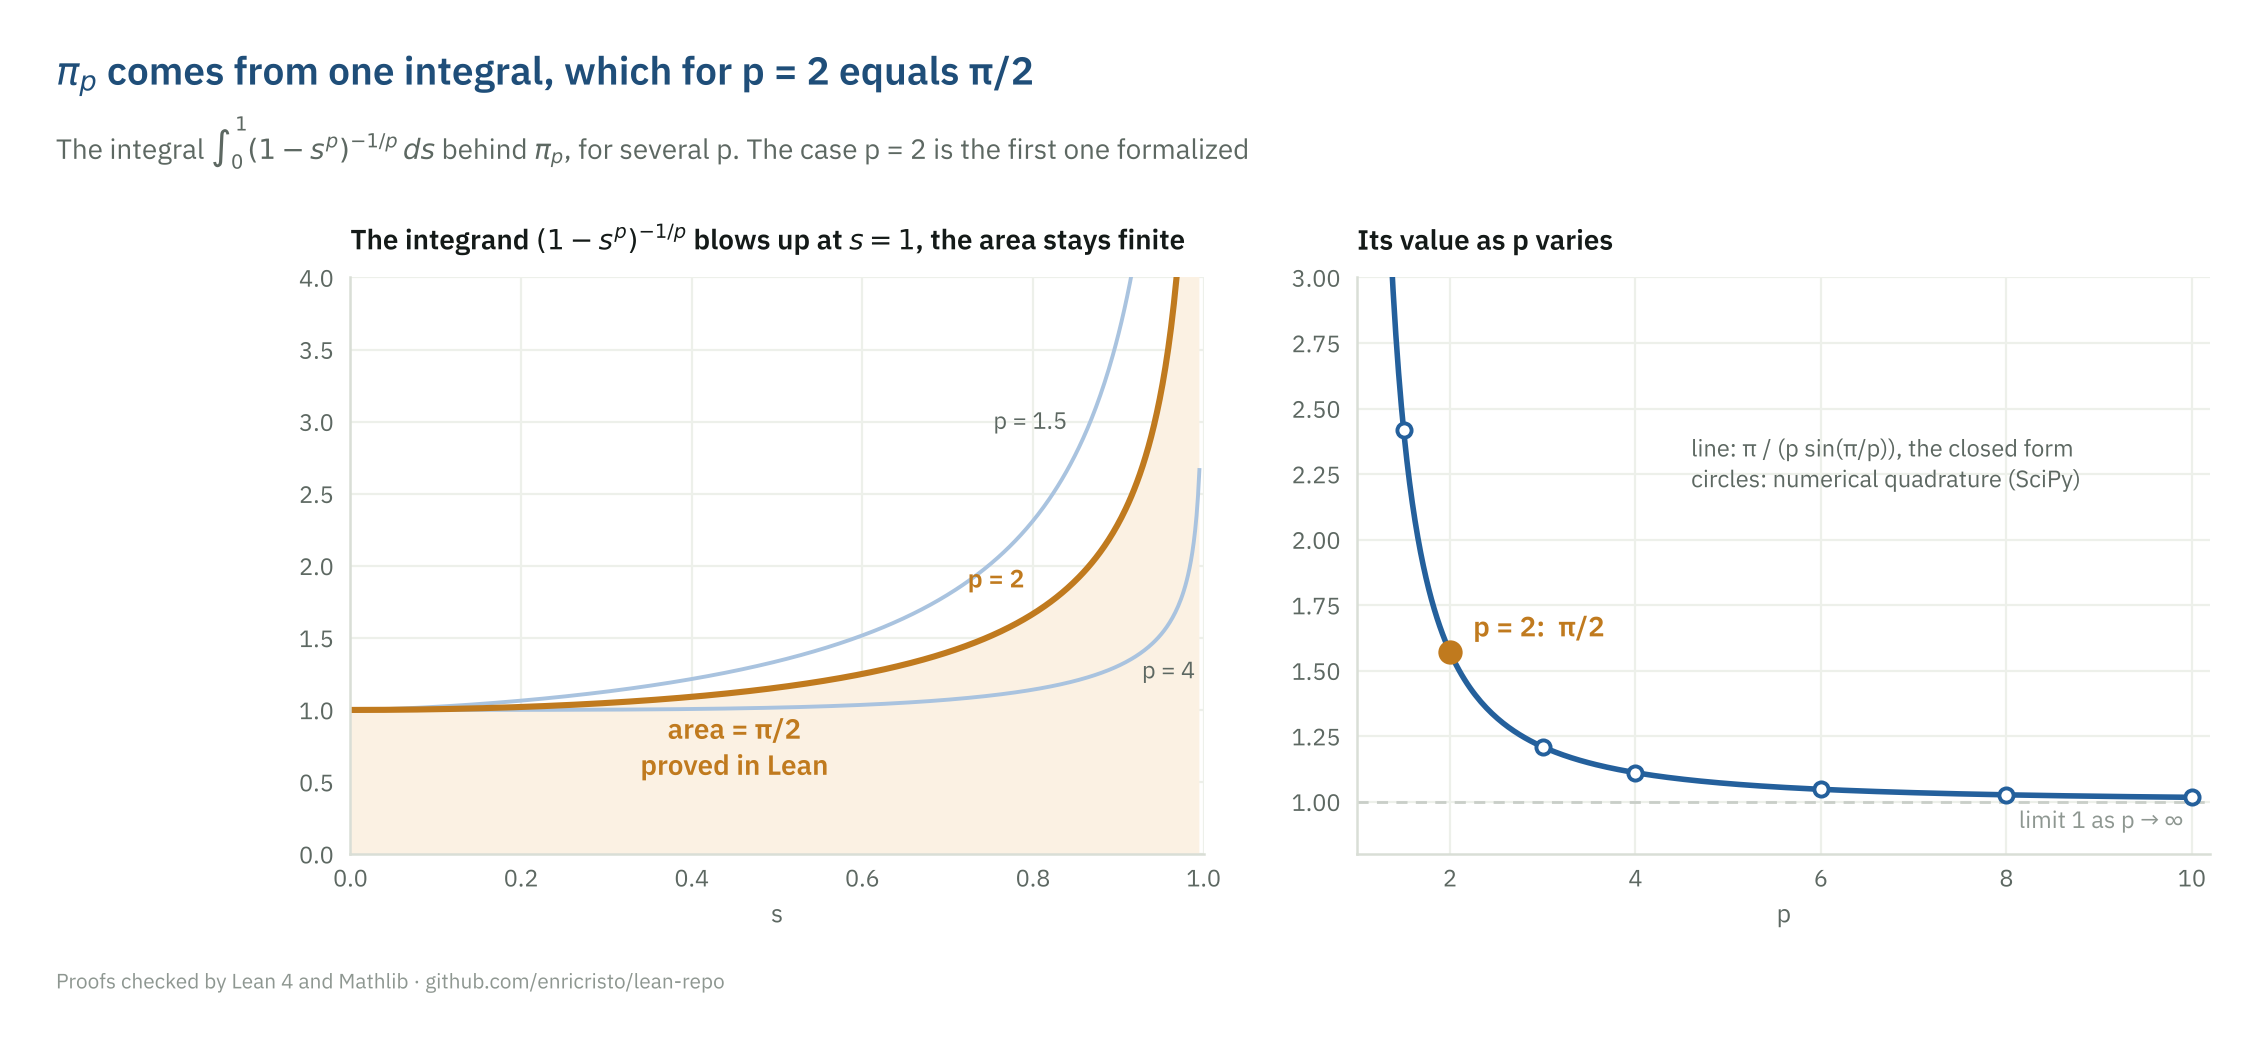
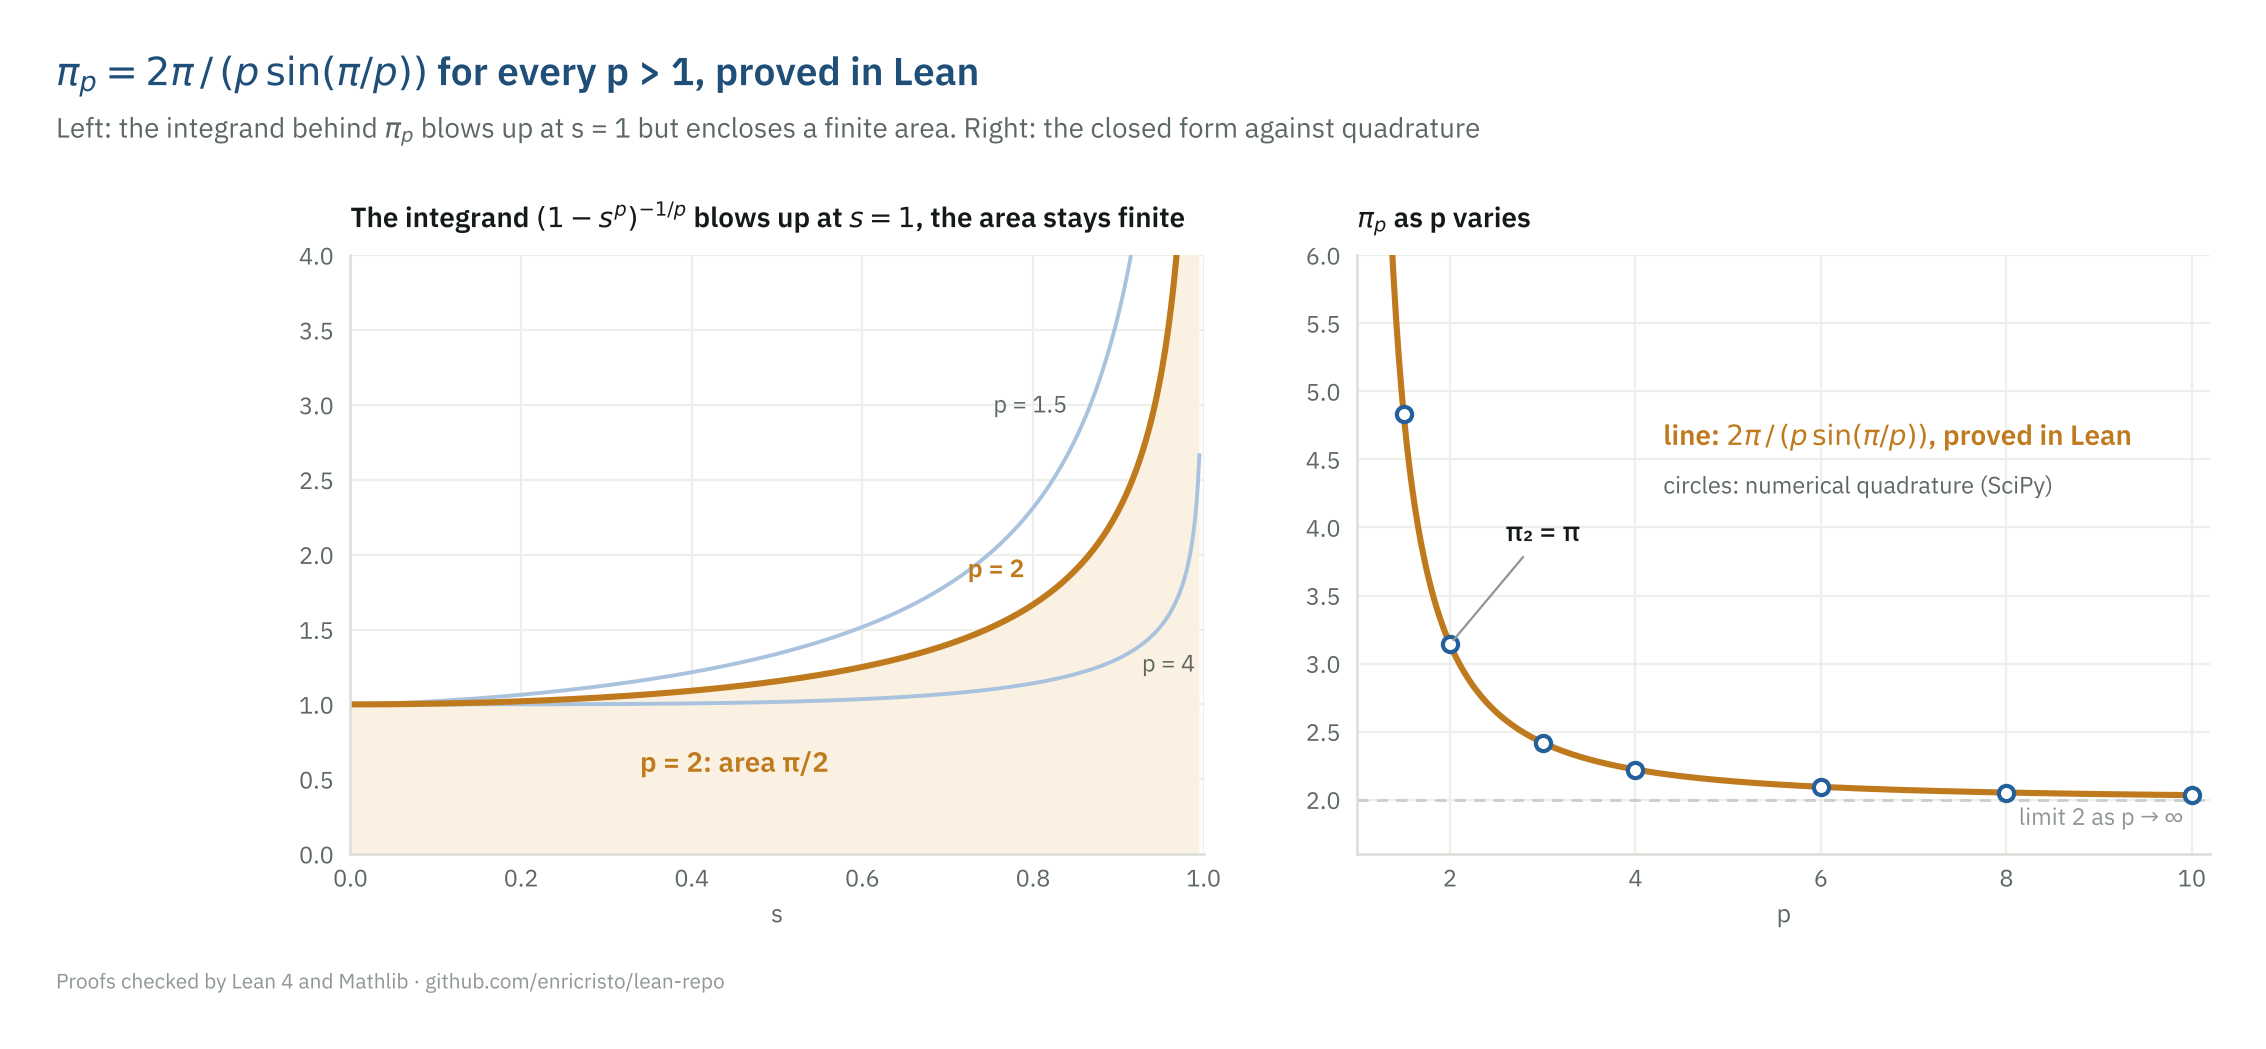
Prove the closed form pi_p = 2 pi / (p sin(pi / p)) for every p > 1
* substitution u = s^p through Mathlib's rule on (0, infinity), with an
  indicator function cutting the half line down to (0, 1)
* the Beta integral B(a, 1 - a) through Gamma and Euler's reflection formula
* axiom audit, SciPy checks of each step, updated note, figure and README

Claude-Session: https://claude.ai/code/session_01DPrMm7Vat1aCAAfTZ9ppCy

diff --git a/scripts/make_figures.py b/scripts/make_figures.py
@@ -30,7 +30,7 @@ def lean_stats() -> dict[str, int]:
     text = "\n".join(f.read_text(encoding="utf-8") for f in files)
     code = re.sub(r"/-.*?-/", "", text, flags=re.S)  # drop comments and docstrings
     return {
-        "results": len(files),
+        "results": len(list((ROOT / "notes").glob("*.md"))),
         "declarations": len(re.findall(r"^(?:noncomputable )?(?:theorem|lemma|def) ", code, flags=re.M)),
         "sorry": len(re.findall(r"\bsorry\b", code)),
     }
@@ -203,7 +203,7 @@ def fig_pi_p():
         ax.plot(s, integrand(s, p), color=NAVY_LIGHT, lw=1.4)
     ax.fill_between(s, 0, integrand(s, 2), color=AMBER_WASH, lw=0)
     ax.plot(s, integrand(s, 2), color=AMBER, lw=2.2)
-    ax.text(0.45, 0.55, "area = π/2\nproved in Lean", color=AMBER, fontsize=10, fontweight="semibold", ha="center")
+    ax.text(0.45, 0.55, "p = 2: area π/2", color=AMBER, fontsize=10, fontweight="semibold", ha="center")
     ax.text(0.84, 2.95, "p = 1.5", color=INK_2, fontsize=8.5, ha="right")
     ax.text(0.79, 1.85, "p = 2", color=AMBER, fontsize=9, ha="right", fontweight="semibold")
     ax.text(0.99, 1.22, "p = 4", color=INK_2, fontsize=8.5, ha="right")
@@ -212,24 +212,26 @@ def fig_pi_p():
     ax.set_xlabel("s")
     ax.set_title(r"The integrand $(1-s^p)^{-1/p}$ blows up at $s = 1$, the area stays finite", pad=10)
 
-    ps = np.linspace(1.15, 10, 300)
-    bx.plot(ps, closed(ps), color=NAVY, lw=2.0)
+    ps = np.linspace(1.12, 10, 300)
+    bx.plot(ps, 2 * closed(ps), color=AMBER, lw=2.2)
     qs = [1.25, 1.5, 2, 3, 4, 6, 8, 10]
-    vals = [quad(integrand, 0, 1, args=(q,), limit=200)[0] for q in qs]
-    bx.scatter(qs, vals, s=26, color=PAPER, edgecolors=NAVY, linewidths=1.4, zorder=3)
-    bx.scatter([2], [np.pi / 2], s=60, color=AMBER, zorder=4)
-    bx.text(2.25, np.pi / 2 + 0.06, "p = 2:  π/2", color=AMBER, fontsize=10, fontweight="semibold")
-    bx.axhline(1, color=CONTEXT, lw=1, ls=(0, (4, 3)))
-    bx.text(9.9, 0.97, "limit 1 as p → ∞", color=INK_3, fontsize=8.5, ha="right", va="top")
-    bx.text(4.6, 2.2, "line: π / (p sin(π/p)), the closed form\ncircles: numerical quadrature (SciPy)", color=INK_2, fontsize=8.5)
+    vals = [2 * quad(integrand, 0, 1, args=(q,), limit=200)[0] for q in qs]
+    bx.scatter(qs, vals, s=30, color=PAPER, edgecolors=NAVY, linewidths=1.5, zorder=3)
+    bx.annotate("π₂ = π", xy=(2, np.pi), xytext=(2.6, 3.9), color=INK, fontsize=10, fontweight="medium",
+                arrowprops={"arrowstyle": "-", "color": INK_3, "lw": 0.8})  # fmt: skip
+    bx.axhline(2, color=CONTEXT, lw=1, ls=(0, (4, 3)))
+    bx.text(9.9, 1.95, "limit 2 as p → ∞", color=INK_3, fontsize=8.5, ha="right", va="top")
+    bx.text(4.3, 4.6, r"line: $2\pi\,/\,(p\,\sin(\pi/p))$, proved in Lean", color=AMBER, fontsize=10,
+            fontweight="semibold")  # fmt: skip
+    bx.text(4.3, 4.25, "circles: numerical quadrature (SciPy)", color=INK_2, fontsize=8.5)
     bx.set_xlim(1, 10.2)
-    bx.set_ylim(0.8, 3.0)
+    bx.set_ylim(1.6, 6.0)
     bx.set_xlabel("p")
-    bx.set_title("Its value as p varies", pad=10)
+    bx.set_title(r"$\pi_p$ as p varies", pad=10)
 
-    viz.headline(fig, r"$\pi_p$ comes from one integral, which for p = 2 equals π/2",
-                 r"The integral $\int_0^1 (1-s^p)^{-1/p}\,ds$ behind $\pi_p$, for several p. The case p = 2 is the first one formalized",
-                 extra_top=22)  # fmt: skip
+    viz.headline(fig, r"$\pi_p = 2\pi\,/\,(p\,\sin(\pi/p))$ for every p > 1, proved in Lean",
+                 r"Left: the integrand behind $\pi_p$ blows up at s = 1 but encloses a finite area. Right: the closed form against quadrature",
+                 extra_top=14)  # fmt: skip
     fig.subplots_adjust(wspace=0.18)
     return fig
 

diff --git a/tests/test_identities.py b/tests/test_identities.py
@@ -91,6 +91,28 @@ def test_pi_integral_closed_form_numerically():
         assert abs(value - np.pi / (p * np.sin(np.pi / p))) < 1e-7, p
 
 
+def test_pi_p_closed_form_and_its_ingredients():
+    from scipy.integrate import quad
+    from scipy.special import beta, gamma
+
+    for p in (1.25, 1.5, 2, 3, 4, 6, 8, 10):
+        a = 1 / p
+        # step 1: substitution u = s^p
+        lhs, _ = quad(lambda s, p=p: (1 - s**p) ** (-a), 0, 1, limit=200)
+        rhs, _ = quad(lambda u, a=a: u ** (a - 1) * (1 - u) ** (-a), 0, 1, limit=200)
+        assert abs(lhs - a * rhs) < 1e-7, p
+        # step 2: Beta, Gamma and Euler's reflection formula
+        assert abs(beta(a, 1 - a) - gamma(a) * gamma(1 - a)) < 1e-9
+        assert abs(gamma(a) * gamma(1 - a) - np.pi / np.sin(np.pi * a)) < 1e-9
+        # step 3: pi_p
+        assert abs(2 * lhs - 2 * np.pi / (p * np.sin(np.pi / p))) < 1e-7, p
+
+
+def test_pi_p_closed_form_at_two_is_pi():
+    p = sp.Integer(2)
+    assert sp.simplify(2 * sp.pi / (p * sp.sin(sp.pi / p))) == sp.pi
+
+
 # ── the repository itself ───────────────────────────────────────────────────
 def test_no_sorry_in_the_lean_sources():
     for f in list((ROOT / "Portfolio").rglob("*.lean")) + list((ROOT / "Solutions").rglob("*.lean")):

diff --git a/notes/pi-p.md b/notes/pi-p.md
@@ -1,7 +1,10 @@
-# π_p, and why π_2 = π
+# π_p in closed form
 
-**Lean file:** [`Portfolio/PLaplacian/PiP.lean`](../Portfolio/PLaplacian/PiP.lean) ·
-**Main theorems:** `Portfolio.piIntegral_two`, `Portfolio.piP_two` · **Status:** the case $p = 2$ is proved; the general closed form is next
+**Lean files:** [`Portfolio/PLaplacian/PiP.lean`](../Portfolio/PLaplacian/PiP.lean) (definition, case $p = 2$) ·
+[`Portfolio/PLaplacian/ClosedForm.lean`](../Portfolio/PLaplacian/ClosedForm.lean) (every $p > 1$) ·
+**Main theorems:** `Portfolio.piP_eq`, `Portfolio.piIntegral_eq`, `Portfolio.piP_two`
+
+$$\pi_p = 2\int_0^1 \left(1-s^p\right)^{-1/p} ds = \frac{2\pi}{p\,\sin(\pi/p)} \qquad (p > 1).$$
 
 ![The integrand for several p, and the value of the integral](../figures/04_pi_p.png)
 
@@ -25,13 +28,13 @@ $$\lambda_1 = (p-1)\,\pi_p^{\,p}.$$
 
 Some authors absorb the factor $(p-1)^{1/p}$ into $\pi_p$ so that $\lambda_1 = \pi_p^{\,p}$; the two conventions differ only by that factor. For $p = 2$ we get back $\sin$, $\arcsin$, $\pi$ and $\lambda_1 = \pi^2$.
 
-## What is proved so far
+## Part 1, warm-up: the case p = 2
 
 $$I_2 = \int_0^1 \frac{ds}{\sqrt{1-s^2}} = \frac{\pi}{2}, \qquad \text{hence} \qquad \pi_2 = \pi.$$
 
 The interesting part is that this integral is **improper**: the integrand blows up at $s = 1$ (left panel). On paper one writes $\lim_{b \to 1^-} \arcsin b$; the formal proof avoids that limit altogether.
 
-## Proof map
+### Proof map
 
 ```mermaid
 graph TD
@@ -58,7 +61,7 @@ graph TD
     class L1,L2,L3 lib
 ```
 
-## Reading the Lean proof
+### Reading the Lean proof
 
 **Step 1. Integrability without computing a limit.** The fundamental theorem of calculus in Mathlib asks for three things: $F$ continuous on $[a, b]$, $F' = f$ on the open interval $(a, b)$, and $f$ integrable. With $F = \arcsin$ the first two are standard, and they only need the open interval, where the derivative exists. The third is the delicate one, because $f$ is unbounded near $1$. Mathlib has a lemma that settles it for free:
 
@@ -81,17 +84,78 @@ The integral becomes $\arcsin 1 - \arcsin 0 = \pi/2 - 0$.
 
 **Step 3. Matching the general definition.** `piIntegral p` uses real powers `s ^ p` and `(⋯) ^ (-(1 / p))`, which in Lean are `Real.rpow` and are defined for every real exponent. For $p = 2$ the lemma `piIntegral_two_integrand` rewrites $s^{(2 : \mathbb{R})}$ as $s^2$ (`rpow_two`), a negative exponent as an inverse (`rpow_neg`), and the power $1/2$ as a square root (`sqrt_eq_rpow`). The two integrands then agree on all of $[0, 1]$, endpoint included, and `integral_congr` transfers the value. Finally `piP_two` is one line: $\pi_2 = 2 \cdot \pi/2 = \pi$.
 
-## What comes next
+## Part 2: every p > 1
 
-The closed form for every $p > 1$:
+The case $p = 2$ worked because $\arcsin$ is a known antiderivative. For general $p$ there is no elementary antiderivative, and the proof goes through special functions instead. It has three steps, each one a lemma in `ClosedForm.lean`.
 
-$$I_p = \frac{\pi}{p \sin(\pi/p)}.$$
+### Proof map
 
-The plan in Lean has three steps: the substitution $u = s^p$ turns $I_p$ into $\frac{1}{p}B\!\left(\frac{1}{p}, 1 - \frac{1}{p}\right)$; Mathlib's `Gamma_mul_Gamma_eq_betaIntegral` writes the Beta function with Gamma functions; and Euler's reflection formula `Real.Gamma_mul_Gamma_one_sub` gives $\Gamma(z)\Gamma(1-z) = \pi / \sin(\pi z)$. The right panel of the figure already checks this formula numerically.
+```mermaid
+graph TD
+    I["piIntegral p<br/>∫₀¹ (1 − sᵖ)^(−1/p) ds"]
+    S["piIntegral_eq_beta<br/>= (1/p) ∫₀¹ u^(1/p − 1) (1 − u)^(−1/p) du"]
+    B["integral_beta_one_sub<br/>∫₀¹ u^(a − 1) (1 − u)^(−a) du = π / sin(πa)"]
+    C["piIntegral_eq<br/>Iₚ = π / (p sin(π/p))"]
+    M["piP_eq<br/>πₚ = 2π / (p sin(π/p))"]
+    L1["integral_comp_rpow_Ioi_of_pos<br/>substitution y = xᵖ on (0, ∞)"]
+    L2["Gamma_mul_Gamma_eq_betaIntegral<br/>Γ(a)Γ(b) = Γ(a + b) B(a, b)"]
+    L3["Gamma_mul_Gamma_one_sub<br/>Γ(z)Γ(1 − z) = π / sin(πz)"]
+    I --> S
+    L1 --> S
+    L2 --> B
+    L3 --> B
+    S --> C
+    B --> C
+    C --> M
+    classDef main fill:#FBF1E3,stroke:#C07A1E,color:#141A18
+    classDef ours fill:#EEF3F8,stroke:#24609C,color:#141A18
+    classDef lib fill:#F3F6F2,stroke:#C9CEC8,color:#5D6862
+    class M main
+    class I,S,B,C ours
+    class L1,L2,L3 lib
+```
+
+### Reading the Lean proof
+
+Throughout, $a = 1/p$, so $0 < a < 1$.
+
+**Step 1. The substitution $u = s^p$, without limits.** On paper:
+
+$$\int_0^1 (1-s^p)^{-a}\,ds \;=\; a\int_0^1 u^{a-1}(1-u)^{-a}\,du, \qquad s = u^{a},\; ds = a\,u^{a-1}du.$$
+
+Both integrands are unbounded at an endpoint, so the textbook substitution rule for continuous functions does not apply. Mathlib has a substitution rule that needs no continuity at all, but it lives on the half line $(0, \infty)$:
+
+$$\int_{(0,\infty)} p\,x^{p-1}\, g(x^p)\,dx = \int_{(0,\infty)} g(y)\,dy.$$
+
+This is `integral_comp_rpow_Ioi_of_pos`.
+
+The trick is to choose $g$ as an indicator function, so that the half line is cut down to $(0, 1)$:
+
+```lean
+set g : ℝ → ℝ := (Iio (1 : ℝ)).indicator (fun y ↦ a * (y ^ (a - 1) * (1 - y) ^ (-a)))
+```
+
+$g(y)$ is $a\,y^{a-1}(1-y)^{-a}$ for $y < 1$ and $0$ otherwise. The right side becomes $a\int_0^1 u^{a-1}(1-u)^{-a}du$ (lemma `hR`). On the left, for $0 < x < 1$ the exponents combine as
+
+$$p\,x^{p-1}\cdot a\,(x^p)^{a-1} = (pa)\,x^{(p-1) + p(a-1)} = x^{pa - 1} = x^0 = 1,$$
+
+so $p\,x^{p-1} g(x^p) = (1-x^p)^{-a}$, which is the original integrand; for $x \ge 1$ both sides are $0$ (lemma `hL`). The rules `rpow_mul` and `rpow_add` do the exponent bookkeeping, and they need $x > 0$, which is exactly where we are.
+
+**Step 2. Beta, Gamma and Euler.** The integral $\int_0^1 u^{a-1}(1-u)^{-a}du$ is the Beta function $B(a, 1-a)$. Mathlib defines Beta only for complex arguments, so the proof moves to $\mathbb{C}$ and back:
+
+1. `intervalIntegral.integral_ofReal` and `Complex.ofReal_cpow` turn the real integral into `Complex.betaIntegral a (1 - a)`; real powers of nonnegative numbers agree with complex ones.
+2. `Gamma_mul_Gamma_eq_betaIntegral` gives $\Gamma(a)\Gamma(1-a) = \Gamma(1)\,B(a, 1-a)$, and $\Gamma(1) = 1$.
+3. `Gamma_mul_Gamma_one_sub`, Euler's reflection formula, gives $\Gamma(a)\Gamma(1-a) = \pi / \sin(\pi a)$.
+
+Since both sides are real numbers cast to $\mathbb{C}$, `exact_mod_cast` brings the identity back to $\mathbb{R}$.
+
+**Step 3. Algebra.** $I_p = a \cdot \dfrac{\pi}{\sin(\pi a)} = \dfrac{\pi}{p\sin(\pi/p)}$, closed by `ring`, and $\pi_p = 2I_p$.
+
+For $p = 2$ the closed form gives $2\pi/(2 \sin(\pi/2)) = \pi$, the same value Part 1 found with $\arcsin$. Two independent routes to one number.
 
 ## Independent checks
 
-[`tests/test_identities.py`](../tests/test_identities.py) computes $I_2 = \pi/2$ symbolically in SymPy, checks $\arcsin' = 1/\sqrt{1-s^2}$, and compares numerical quadrature of $I_p$ with $\pi/(p\sin(\pi/p))$ for eight values of $p$, to $10^{-7}$. [`Test/Axioms.lean`](../Test/Axioms.lean) confirms that `piIntegral_two` and `piP_two` use only the three standard axioms.
+[`tests/test_identities.py`](../tests/test_identities.py) computes $I_2 = \pi/2$ symbolically in SymPy and checks $\arcsin' = 1/\sqrt{1-s^2}$. For eight values of $p$ it checks each step of Part 2 separately with SciPy: the substitution (two quadratures), the Beta and Gamma relation, the reflection formula, and the final value of $\pi_p$, all to $10^{-7}$ or better. [`Test/Axioms.lean`](../Test/Axioms.lean) confirms that `piIntegral_two`, `piP_two`, `piIntegral_eq` and `piP_eq` use only the three standard axioms.
 
 ## Reference
 

diff --git a/README.md b/README.md
@@ -41,18 +41,19 @@ unconditional `HasSum` using that the terms are nonnegative.
 
 ![cancellation](figures/02_telescoping_cancellation.png)
 
-### 3. π<sub>p</sub>, and why π<sub>2</sub> = π
+### 3. π<sub>p</sub> in closed form
 
-$$\pi_p = 2\int_0^1 \left(1-s^p\right)^{-1/p} ds, \qquad \pi_2 = 2\int_0^1 \frac{ds}{\sqrt{1-s^2}} = \pi$$
+$$\pi_p = 2\int_0^1 \left(1-s^p\right)^{-1/p} ds = \frac{2\pi}{p\,\sin(\pi/p)} \qquad (p > 1)$$
 
 $\pi_p$ is the constant of the generalized sine that solves the one
 dimensional $p$-Laplacian eigenvalue problem: on $(0, 1)$ the first
-eigenvalue is $(p-1)\pi_p^{\,p}$. The integral is improper at $s = 1$; the
-Lean proof never takes a limit, because a nonnegative derivative of a bounded
-function (here $\arcsin$) is automatically integrable. Next: the closed form
-$\pi_p = 2\pi/(p\sin(\pi/p))$ for every $p > 1$, through the Beta function
-and Euler's reflection formula.
-[Note](notes/pi-p.md) · [Lean](Portfolio/PLaplacian/PiP.lean)
+eigenvalue is $(p-1)\pi_p^{\,p}$. The integral is improper, so the proof
+avoids limits twice. For $p = 2$ it uses $\arcsin$ and the fact that a
+nonnegative derivative of a bounded function is integrable. For every
+$p > 1$ it substitutes $u = s^p$ through Mathlib's rule on $(0, \infty)$ with
+an indicator function, lands on the Beta function $B(1/p, 1 - 1/p)$, and
+finishes with Euler's reflection formula $\Gamma(z)\Gamma(1-z) = \pi/\sin(\pi z)$.
+[Note](notes/pi-p.md) · [Lean](Portfolio/PLaplacian/ClosedForm.lean)
 
 ![pi_p](figures/04_pi_p.png)
 
@@ -102,7 +103,7 @@ lake build                      # proofs, solutions and axiom audit
 
 # Python
 pip install -r requirements.txt
-pytest                          # 13 checks
+pytest                          # 15 checks
 python scripts/make_figures.py  # regenerates figures/
 ```
 
